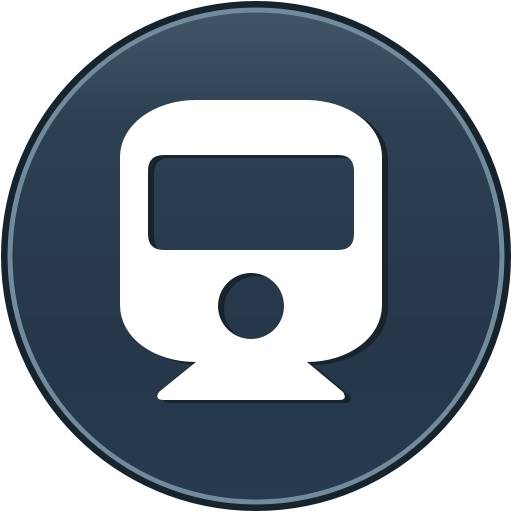
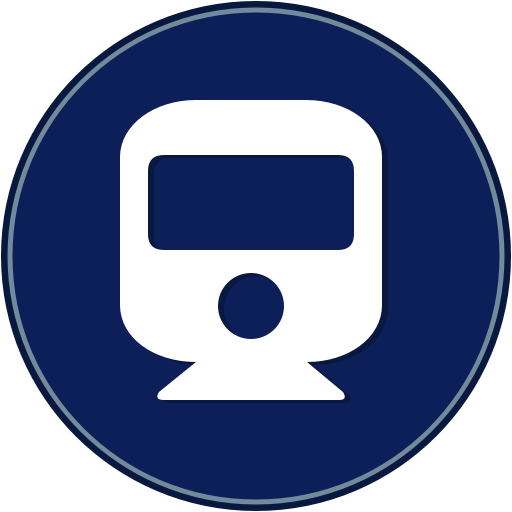
Refine StateInfo choices and cab artwork taps

diff --git a/src/pytrain_ui/qt/qml/StateInfoView.qml b/src/pytrain_ui/qt/qml/StateInfoView.qml
@@ -11,6 +11,7 @@ Rectangle {
     readonly property bool useTouchKeyboard: Qt.platform.os === "linux"
     readonly property bool editorOpen: fieldEditor.visible || roadNameKeyboard.visible
     readonly property bool hasUnsavedChanges: !!record.unsaved || fieldEditor.hasUnsavedChanges || roadNameKeyboard.hasUnsavedChanges
+    readonly property color fieldLabelColor: "#b5c9e5"
     readonly property var record: controller ? controller.model : ({})
     color: "#102858"
     radius: 10
@@ -85,7 +86,7 @@ Rectangle {
                     Label {
                         Layout.fillWidth: true
                         text: modelData.label
-                        color: "#b5c9e5"
+                        color: root.fieldLabelColor
                         font.pixelSize: 14
                         wrapMode: Text.WordWrap
                     }
@@ -162,6 +163,7 @@ Rectangle {
                     Repeater {
                         model: root.record.identity || []
                         delegate: InfoButton {
+                            id: identityButton
                             required property var modelData
                             Layout.fillWidth: true
                             Layout.preferredWidth: 0
@@ -171,6 +173,31 @@ Rectangle {
                             text: modelData.label + "\n" + modelData.display
                             font.pixelSize: 17
                             enabled: !!root.record.editable
+                            contentItem: Item {
+                                ColumnLayout {
+                                    width: parent.width
+                                    anchors.verticalCenter: parent.verticalCenter
+                                    spacing: 0
+                                    Label {
+                                        Layout.fillWidth: true
+                                        text: modelData.label
+                                        textFormat: Text.PlainText
+                                        font: identityButton.font
+                                        color: root.fieldLabelColor
+                                        horizontalAlignment: Text.AlignHCenter
+                                        elide: Text.ElideRight
+                                    }
+                                    Label {
+                                        Layout.fillWidth: true
+                                        text: modelData.display
+                                        textFormat: Text.PlainText
+                                        font: identityButton.font
+                                        color: "white"
+                                        horizontalAlignment: Text.AlignHCenter
+                                        elide: Text.ElideRight
+                                    }
+                                }
+                            }
                             onClicked: {
                                 if (modelData.key === "name" && root.useTouchKeyboard)
                                     roadNameKeyboard.openWithText(modelData.value || "")
@@ -248,17 +275,21 @@ Rectangle {
                     horizontalAlignment: Text.AlignHCenter
                     verticalAlignment: Text.AlignVCenter
                     font.pixelSize: 18
-                    color: "white"
+                    color: "#ff6666"
                 }
-                background: Rectangle {
-                    color: "#572f43"
-                    border.color: "#b67580"
-                    radius: 8
+                background: ButtonFace {
+                    depressed: clearButton.down
+                    focused: clearButton.activeFocus
                     Rectangle {
-                        width: parent.width * clearButton.progress
-                        height: parent.height
-                        radius: 8
-                        color: "#a93c4b"
+                        visible: clearButton.down && clearButton.progress > 0
+                        anchors.left: parent.left
+                        anchors.leftMargin: 3
+                        anchors.bottom: parent.bottom
+                        anchors.bottomMargin: 2
+                        width: Math.max(0, parent.width - 6) * clearButton.progress
+                        height: 5
+                        radius: 2
+                        color: clearButton.contentItem.color
                     }
                 }
             }
@@ -302,7 +333,13 @@ Rectangle {
         readonly property bool numeric: field.key === "number"
         readonly property bool choice: !!field.options && field.options.length > 0
         readonly property bool engineTypeList: choice && field.key === "type"
+        readonly property real editorScale: choice ? 1.25 : 1
+        readonly property int choiceHeight: Math.round(50 * editorScale)
+        readonly property int choiceGap: Math.round(10 * editorScale)
+        readonly property real choiceBodyHeight: Math.max(choiceHeight, parent.height - 200)
         readonly property bool shortList: choice && !engineTypeList && field.options.length <= 6
+            && field.options.length * (choiceHeight + choiceGap) - choiceGap <= choiceBodyHeight
+        readonly property bool scrollChoices: choice && (engineTypeList || (!shortList && field.options.length <= 6))
         readonly property string originalValue: field.value === undefined || field.value === null ? "" : String(field.value)
         readonly property bool hasUnsavedChanges: visible && (choice
             ? picker.currentIndex >= 0 && String(picker.currentValue) !== originalValue
@@ -323,6 +360,7 @@ Rectangle {
             required property int index
             required property var modelData
             text: modelData.label
+            font.pixelSize: Math.round(18 * fieldEditor.editorScale)
             selected: picker.currentIndex === index
             Accessible.checkable: true
             Accessible.checked: selected
@@ -335,7 +373,7 @@ Rectangle {
             entry.text = row.value === undefined || row.value === null ? "" : String(row.value)
             picker.currentIndex = choice ? picker.indexOfValue(row.value) : -1
             open()
-            if (engineTypeList)
+            if (scrollChoices)
                 revealEngineType.restart()
             if (!choice) {
                 entry.forceActiveFocus()
@@ -355,57 +393,58 @@ Rectangle {
         }
 
         parent: Overlay.overlay
-        width: Math.min(parent.width - 24, roadName ? 840 : (numeric ? 560 : 480))
+        width: Math.min(parent.width - 24, roadName ? 840 : (numeric ? 560 : 480 * editorScale))
         x: (parent.width - width) / 2
         y: Math.max(12, (parent.height - height) / 2)
-        padding: 16
+        padding: Math.round(16 * editorScale)
         modal: false
         focus: true
         closePolicy: Popup.CloseOnEscape
         background: Rectangle { color: "#102858"; radius: 12; border.color: "#7094c0" }
         contentItem: ColumnLayout {
-            spacing: 10
+            spacing: Math.round(10 * fieldEditor.editorScale)
             Label {
                 text: fieldEditor.field.label || ""
                 color: "white"
-                font.pixelSize: 24
+                font.pixelSize: Math.round(24 * fieldEditor.editorScale)
                 font.bold: true
             }
             ComboBox {
                 id: picker
-                visible: fieldEditor.choice && !fieldEditor.shortList && !fieldEditor.engineTypeList
+                visible: fieldEditor.choice && !fieldEditor.shortList && !fieldEditor.scrollChoices
                 Layout.fillWidth: true
-                Layout.preferredHeight: 54
+                Layout.preferredHeight: Math.round(54 * fieldEditor.editorScale)
                 textRole: "label"
                 valueRole: "value"
                 model: fieldEditor.field.options || []
-                font.pixelSize: 18
+                font.pixelSize: Math.round(18 * fieldEditor.editorScale)
             }
             ColumnLayout {
                 Layout.fillWidth: true
                 visible: fieldEditor.shortList
-                spacing: 6
+                spacing: fieldEditor.choiceGap
                 Repeater {
                     model: fieldEditor.shortList ? fieldEditor.field.options : []
                     FieldChoice {
                         Layout.fillWidth: true
-                        Layout.preferredHeight: 50
+                        Layout.preferredHeight: fieldEditor.choiceHeight
                     }
                 }
             }
             ListView {
                 id: engineTypes
-                visible: fieldEditor.engineTypeList
+                visible: fieldEditor.scrollChoices
                 Layout.fillWidth: true
-                Layout.preferredHeight: Math.min(count, fieldEditor.parent.height < 450 ? 4 : 5) * 56 - (count > 0 ? 6 : 0)
+                Layout.preferredHeight: Math.min(fieldEditor.choiceBodyHeight,
+                    Math.min(count, 5) * (fieldEditor.choiceHeight + spacing) - (count > 0 ? spacing : 0))
                 clip: true
-                spacing: 6
+                spacing: fieldEditor.choiceGap
                 boundsBehavior: Flickable.StopAtBounds
-                model: fieldEditor.engineTypeList ? fieldEditor.field.options : []
+                model: fieldEditor.scrollChoices ? fieldEditor.field.options : []
                 ScrollBar.vertical: ListScrollBar { id: typeScrollBar }
                 delegate: FieldChoice {
                     width: engineTypes.width - typeScrollBar.gutterWidth
-                    height: 50
+                    height: fieldEditor.choiceHeight
                 }
             }
             RowLayout {
@@ -468,9 +507,16 @@ Rectangle {
                 Layout.fillWidth: true
                 Layout.topMargin: metrics.footerGap
                 spacing: 18
-                FooterButton { text: fieldEditor.choice || fieldEditor.roadName ? "Cancel" : "Close"; onClicked: fieldEditor.close() }
+                FooterButton {
+                    text: fieldEditor.choice || fieldEditor.roadName ? "Cancel" : "Close"
+                    Layout.preferredHeight: Math.round(56 * fieldEditor.editorScale)
+                    font.pixelSize: Math.round(18 * fieldEditor.editorScale)
+                    onClicked: fieldEditor.close()
+                }
                 FooterButton {
                     text: fieldEditor.roadName ? "Save" : "Apply"
+                    Layout.preferredHeight: Math.round(56 * fieldEditor.editorScale)
+                    font.pixelSize: Math.round(18 * fieldEditor.editorScale)
                     selected: true
                     enabled: fieldEditor.choice ? picker.currentIndex >= 0 :
                              !root.record.creating || entry.text.trim().length > 0

diff --git a/src/pytrain_ui/qt/qml/CabView.qml b/src/pytrain_ui/qt/qml/CabView.qml
@@ -719,17 +719,39 @@ Rectangle {
                         asynchronous: true
                         cache: false
                     }
+                    Timer {
+                        id: artworkTapWindow
+                        interval: 450
+                    }
                     TapHandler {
+                        property point firstTapPosition
+
                         enabled: !!root.infoController && cab.tmccId > 0
                         gesturePolicy: TapHandler.DragThreshold
-                        onLongPressed: root.stateInfoRequested()
-                        onDoubleTapped: root.stateInfoRequested()
+                        onCanceled: artworkTapWindow.stop()
+                        onLongPressed: {
+                            artworkTapWindow.stop()
+                            root.stateInfoRequested()
+                        }
+                        onTapped: function(point) {
+                            const position = point.position
+                            if (artworkTapWindow.running
+                                    && Math.hypot(position.x - firstTapPosition.x,
+                                                  position.y - firstTapPosition.y) <= 32) {
+                                artworkTapWindow.stop()
+                                root.stateInfoRequested()
+                            } else {
+                                firstTapPosition = position
+                                artworkTapWindow.restart()
+                            }
+                        }
                     }
                     DragHandler {
                         id: artworkDrag
                         target: null
                         xAxis.enabled: true
                         yAxis.enabled: false
+                        onActiveChanged: if (active) artworkTapWindow.stop()
                         enabled: cab.scope === "ENGINE" && root.selection && root.selection.count > 0
                         onGrabChanged: function(transition, point) {
                             if (transition !== PointerDevice.UngrabExclusive)
